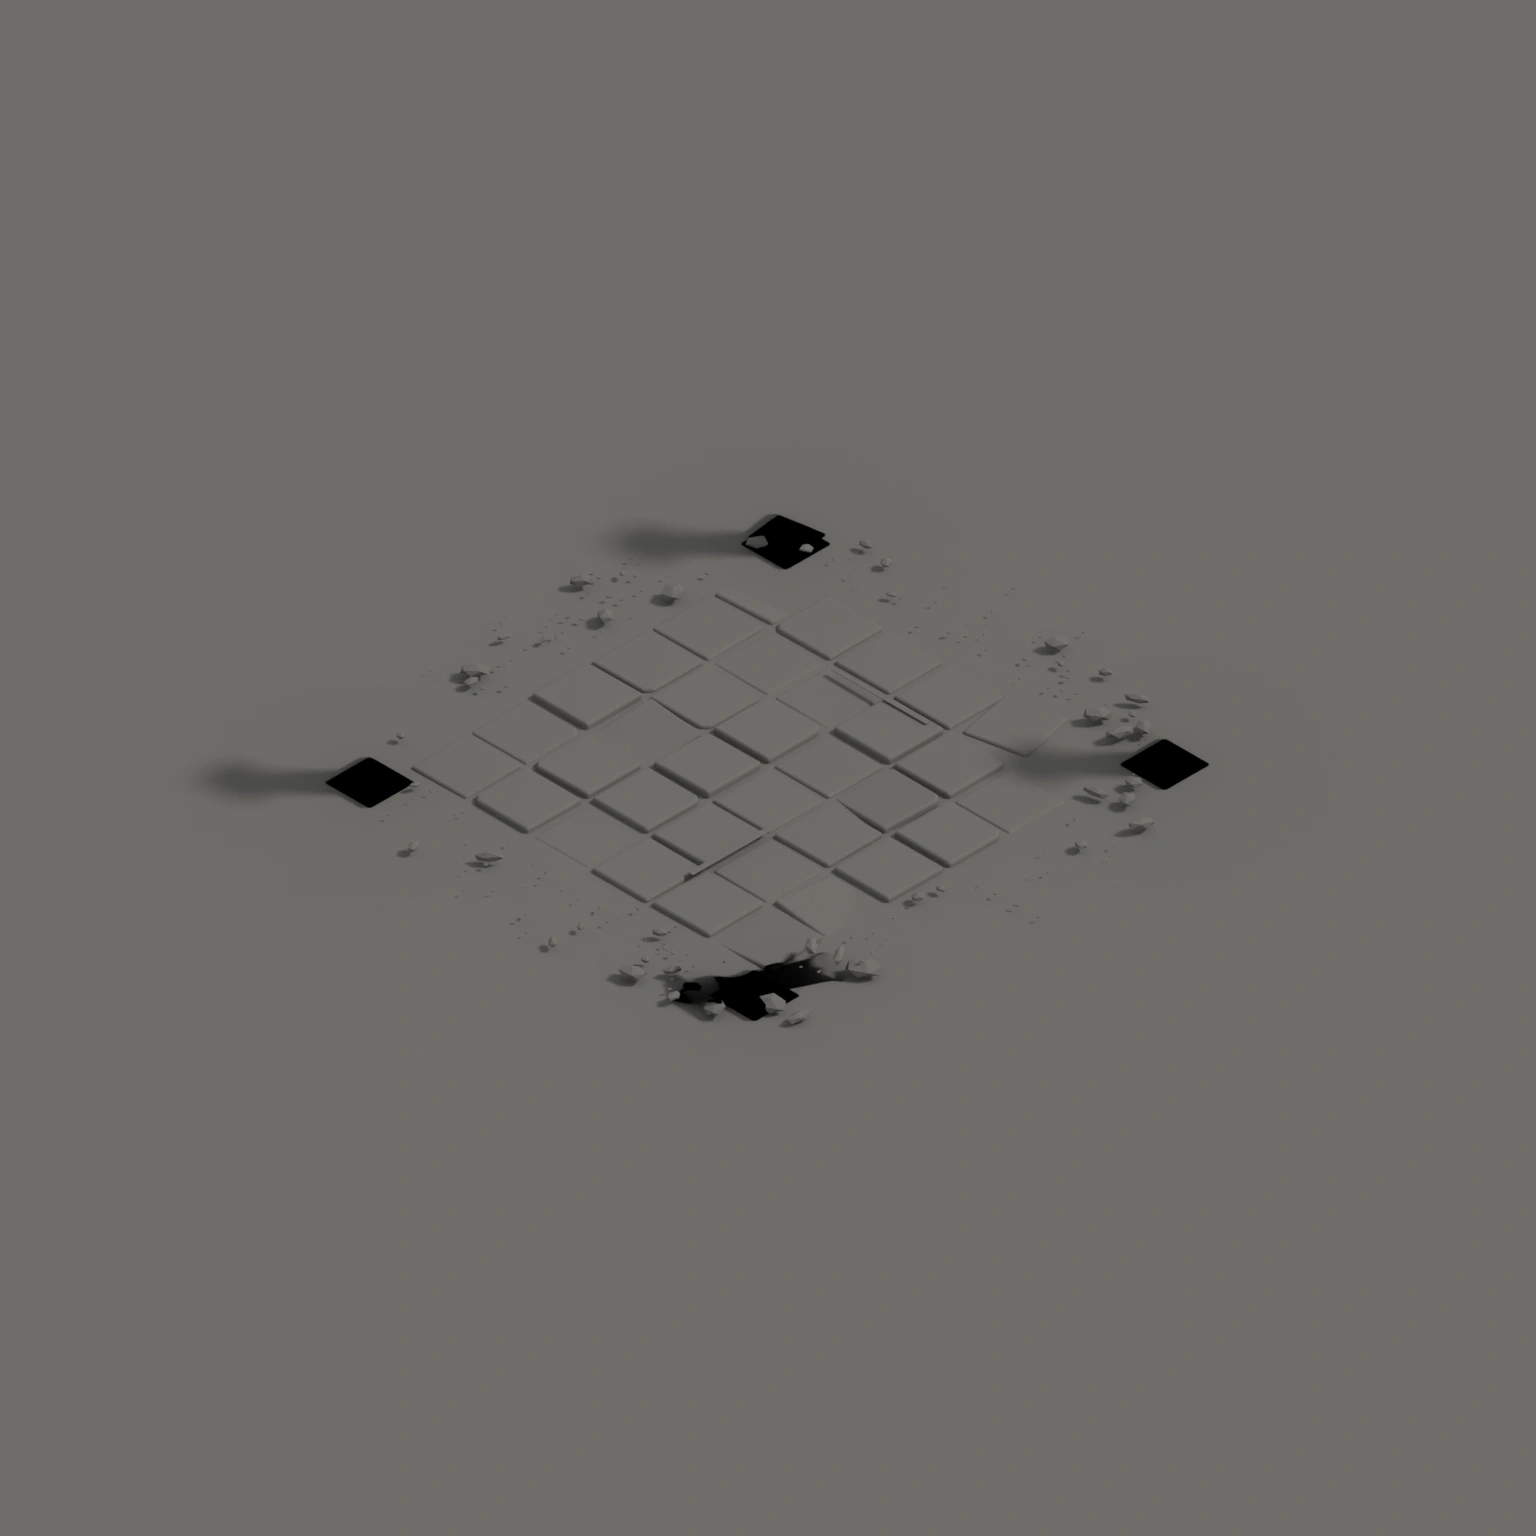
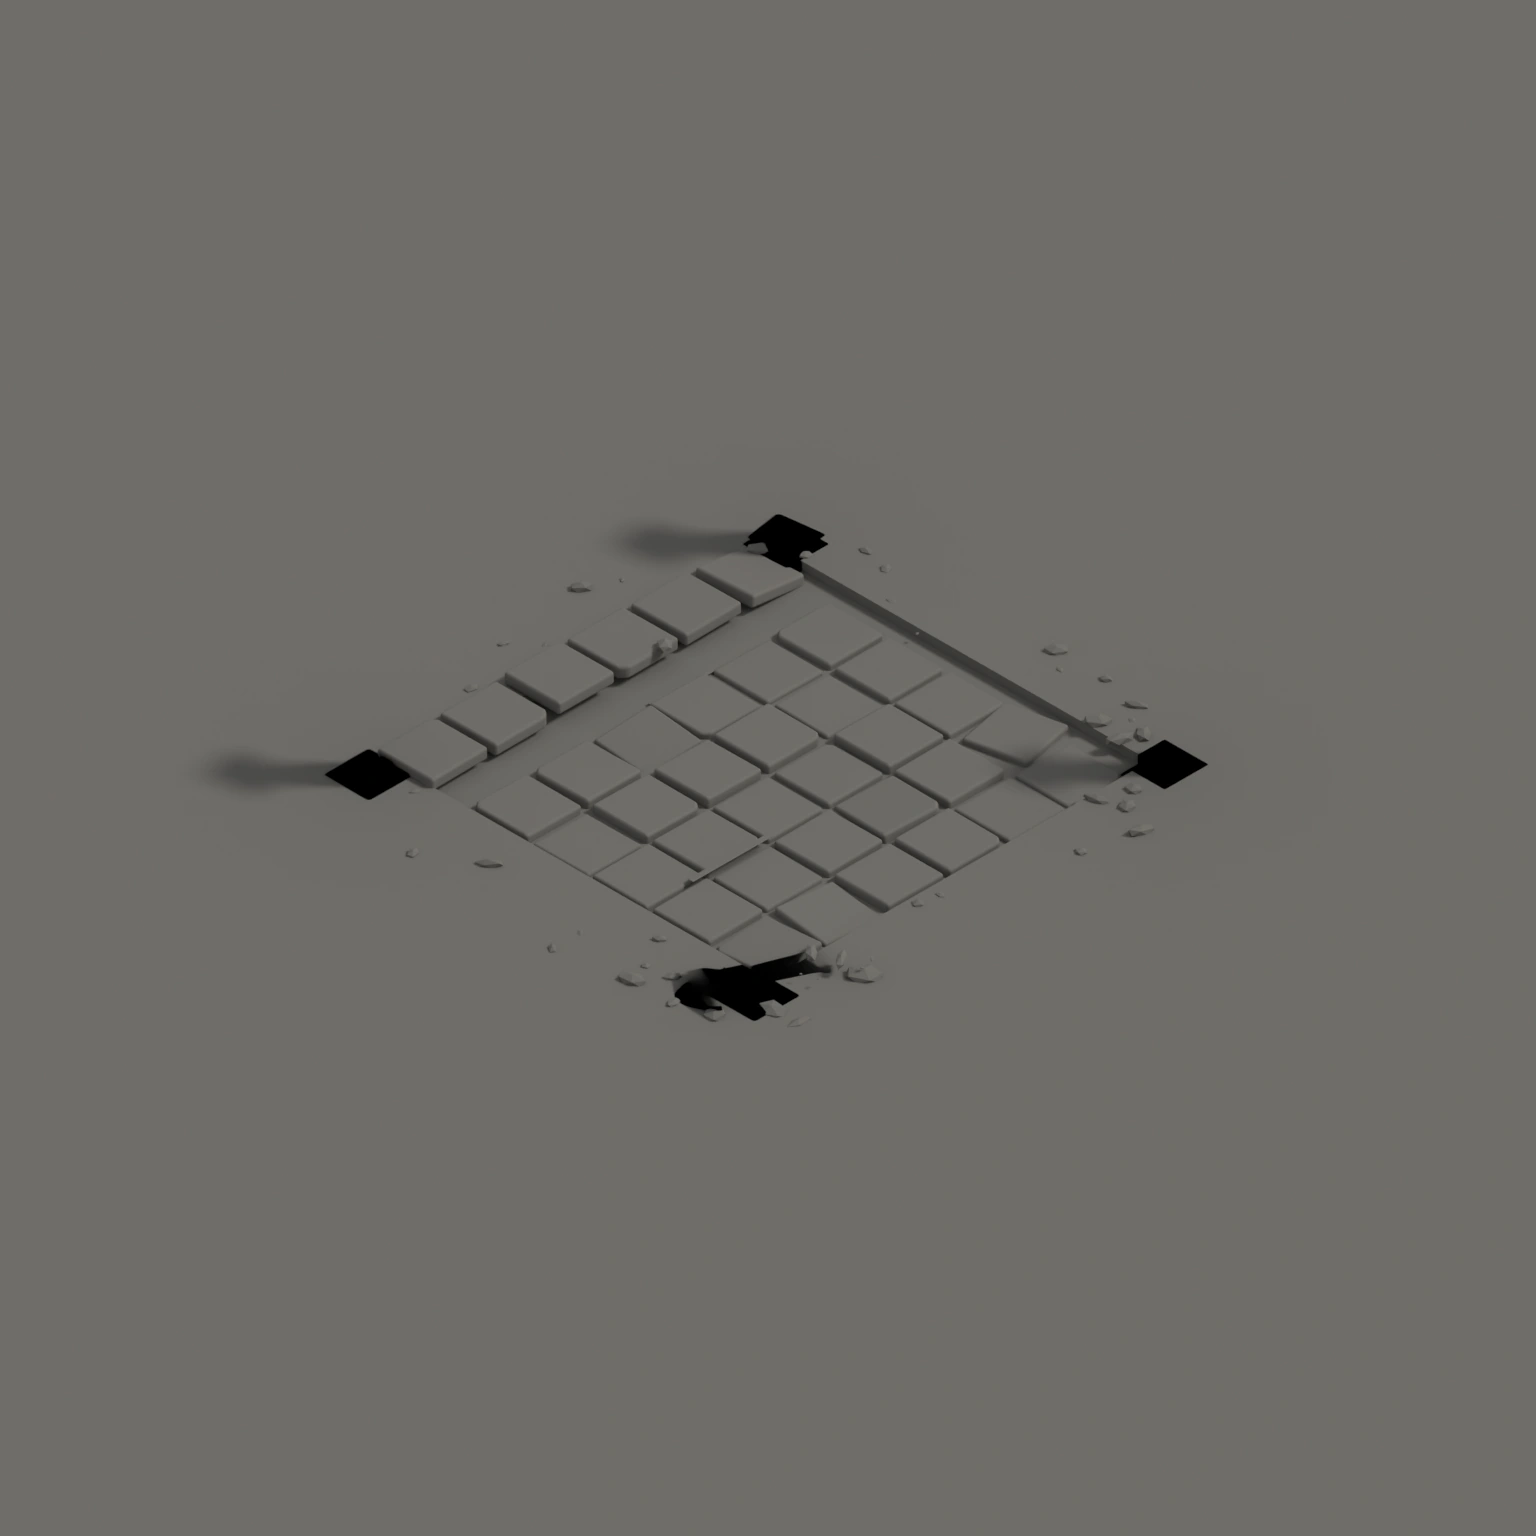
Export recessed Boop arena and match invisible floor opening

diff --git a/web-3d/games/boop/src/game/boop-prerender.test.ts b/web-3d/games/boop/src/game/boop-prerender.test.ts
@@ -1,6 +1,6 @@
 import * as THREE from 'three';
 import { describe, expect, it } from 'vitest';
-import { BOOP_PRERENDER_MANIFEST as manifest, batchBoopColumns, createBoopPrerenderTopology } from './boop-prerender';
+import { BOOP_PRERENDER_MANIFEST as manifest, batchBoopColumns, createBoopPrerenderTopology, createBoopGroundGeometry } from './boop-prerender';
 import type { BoardSnapshot } from '@abstract/three-engine';
 
 const snapshot: BoardSnapshot = { cells: [], cellCount: 324, playableCells: 36 };
@@ -26,7 +26,9 @@ describe('Boop Blender grid registration', () => {
   it('matches all 36 source cells exactly and picks the displaced cells at their own centers', () => {
     const topology = createBoopPrerenderTopology({ size: 6, outsideRows: 6 }, new THREE.Group());
     expect(manifest.referenceCellCount).toBe(36);
-    expect(manifest.maxSourceAlignmentError).toBeLessThan(1e-5);
+    // The saved arena intentionally moves some tiles relative to the original
+    // reference. Placement and picking must match those exported centers.
+    expect(manifest.maxSourceAlignmentError).toBeGreaterThan(0);
     const indices = new Set<number>();
     for (const cell of manifest.cells) {
       const index = cell.row * 6 + cell.col;
@@ -45,5 +47,17 @@ describe('Boop Blender grid registration', () => {
     expect(index).not.toBeNull();
     if (index === null) throw new Error('Missing pool cell');
     expect(topology.cellPosition(index, snapshot).toArray()).toEqual([-5.5, 0, -2.5]);
+  });
+  it('leaves the zero-height ground open over the lowered arena', () => {
+    const mesh = new THREE.Mesh(createBoopGroundGeometry(30), new THREE.MeshBasicMaterial());
+    mesh.updateMatrixWorld(true);
+    const cut = manifest.groundCutout;
+    function surface(x: number, z: number) {
+      const ray = new THREE.Raycaster(new THREE.Vector3(x, 2, z), new THREE.Vector3(0, -1, 0));
+      return ray.intersectObject(mesh)[0]?.point.y;
+    }
+    expect(surface((cut.minX + cut.maxX) / 2, (cut.minZ + cut.maxZ) / 2)).toBeCloseTo(cut.floorY);
+    expect(surface(cut.maxX + 1, 0)).toBeCloseTo(0);
+    mesh.geometry.dispose();
   });
 });

diff --git a/web-3d/games/boop/src/game/boop-prerender.ts b/web-3d/games/boop/src/game/boop-prerender.ts
@@ -6,6 +6,28 @@ import { loadBoopShadowGeometry } from './boop-stone-cats';
 
 export const BOOP_PRERENDER_MANIFEST = manifest;
 
+/** Match the invisible depth/shadow floor to Blender's actual arena opening. */
+export function createBoopGroundGeometry(size: number): THREE.BufferGeometry {
+  const cut = manifest.groundCutout;
+  const half = size / 2;
+  const parts: THREE.BufferGeometry[] = [];
+  function rectangle(x0: number, x1: number, z0: number, z1: number, y = 0) {
+    const plane = new THREE.PlaneGeometry(x1 - x0, z1 - z0);
+    plane.rotateX(-Math.PI / 2);
+    plane.translate((x0 + x1) / 2, y, (z0 + z1) / 2);
+    parts.push(plane);
+  }
+  rectangle(-half, half, -half, cut.minZ);
+  rectangle(-half, half, cut.maxZ, half);
+  rectangle(-half, cut.minX, cut.minZ, cut.maxZ);
+  rectangle(cut.maxX, half, cut.minZ, cut.maxZ);
+  rectangle(cut.minX, cut.maxX, cut.minZ, cut.maxZ, cut.floorY);
+  const geometry = mergeGeometries(parts);
+  parts.forEach(part => part.dispose());
+  if (!geometry) throw new Error('Could not create recessed Boop ground');
+  return geometry;
+}
+
 function asset(name: string): string {
   return `${import.meta.env.BASE_URL}prerender/${name}`;
 }
@@ -83,6 +105,13 @@ export function createBoopPrerenderTopology(options: SquareGridOptions, columns:
       return outside !== null && outside >= 36 ? outside : null;
     },
     buildBoard(ctx) {
+      for (const child of ctx.board.children) {
+        if (!(child instanceof THREE.Mesh) || !child.userData.playfieldGround) continue;
+        child.geometry.computeBoundingBox();
+        const box = child.geometry.boundingBox!;
+        child.geometry = createBoopGroundGeometry(box.max.x - box.min.x);
+        ctx.boardGeometries.push(child.geometry);
+      }
       ctx.board.add(columns.clone(true));
       // Two batched low-poly surfaces provide depth/AO and live shadows over the image.
       const parts = manifest.cells.map(c => {

diff --git a/web-3d/scripts/render-boop-arena.py b/web-3d/scripts/render-boop-arena.py
@@ -17,6 +17,7 @@ parser.add_argument('--grid', required=True)
 parser.add_argument('--output', required=True)
 parser.add_argument('--source-copy', required=True)
 parser.add_argument('--resolution', type=int, default=1536)
+parser.add_argument('--allow-grid-offsets', action='store_true', help='Keep intentionally moved tile centers and record their reference offsets')
 args = parser.parse_args(sys.argv[sys.argv.index('--') + 1:])
 args.output = os.path.abspath(args.output)
 os.makedirs(args.output, exist_ok=True)
@@ -32,7 +33,7 @@ assert len(cells) == 36, 'Expected all 36 reference cells'
 errors = [math.hypot(o.matrix_world.translation.x - reference[o.name][0],
                      o.matrix_world.translation.y - reference[o.name][1]) for o in cells]
 height_changes = [abs(o.matrix_world.translation.z - reference[o.name][2]) for o in cells]
-assert max(errors) < 1e-5, 'Grid and source arena differ horizontally; review alignment before rendering'
+assert args.allow_grid_offsets or max(errors) < 1e-5, 'Grid and source arena differ horizontally; review alignment before rendering'
 
 # The authored pitch is 1.05 m; the game's cell pitch is one world unit.
 scale = 1 / 1.05
@@ -43,6 +44,14 @@ for o in list(scene.objects):
     if o.parent is None:
         o.matrix_world = transform @ o.matrix_world
 bpy.context.view_layer.update()
+recess = scene.objects.get('Arena recessed floor')
+recess_z = recess.matrix_world.translation.z if recess else 0
+ground_cutout = None
+if recess:
+    corners = [recess.matrix_world @ Vector(v) for v in recess.bound_box]
+    ground_cutout = {'minX': min(p.x for p in corners), 'maxX': max(p.x for p in corners),
+                     'minZ': -max(p.y for p in corners), 'maxZ': -min(p.y for p in corners),
+                     'floorY': recess_z}
 
 def srgb(hex_value):
     values = [int(hex_value[i:i + 2], 16) / 255 for i in (0, 2, 4)]
@@ -62,7 +71,7 @@ meshes = [o for o in scene.objects if o.type == 'MESH' and not o.hide_render and
 for o in meshes:
     o.data = o.data.copy()
     o.data.materials.clear()
-    o.data.materials.append(ground if o == floor else stone)
+    o.data.materials.append(ground if o == floor or o == recess or o.name == 'Arena recess inner sides' else stone)
 
 # Retain complete column assemblies so moving pieces can pass behind their silhouettes.
 columns = [o for o in meshes if any(s in o.name.lower() for s in ('column', 'capital'))]
@@ -76,7 +85,7 @@ for o in cells:
     origin = o.matrix_world.inverted() @ Vector((center.x, center.y, 10))
     direction = o.matrix_world.to_3x3().inverted() @ Vector((0, 0, -1))
     hit, point, _, _ = o.ray_cast(origin, direction)
-    top = max(0, (o.matrix_world @ point).z if hit else center.z + o.dimensions.z / 2)
+    top = max(recess_z, (o.matrix_world @ point).z if hit else center.z + o.dimensions.z / 2)
     records.append({'name': o.name, 'row': row, 'col': col, 'x': center.x, 'y': top, 'z': -center.y})
     marker = bpy.data.objects.new('Grid ' + o.name, None)
     marker.empty_display_type = 'SPHERE'
@@ -134,6 +143,7 @@ for o in columns:
 report = {
     'referenceCellCount': len(cells), 'maxSourceAlignmentError': max(errors),
     'maxSourceHeightChange': max(height_changes),
+    'groundCutout': ground_cutout,
     'sourcePitch': 1.05, 'worldScale': scale, 'cells': sorted(records, key=lambda c: (c['row'], c['col'])),
     'camera': {'position': [position[0], position[2], -position[1]], 'target': [0, 0, 0], 'width': 18, 'height': 18, 'frameWidth': 14, 'frameHeight': 10},
     'liveColumns': [o.name for o in columns], 'staticMeshCount': len(meshes) - len(columns),

diff --git a/docs/boop-prerender.md b/docs/boop-prerender.md
@@ -9,10 +9,13 @@ The existing full 3D arena is available for comparison with `?arena=3d`.
 ## Grid registration
 
 The supplied `boop_grid.blend` contains the same 36 named cell objects as
-`ari+6X6.blend`. Their horizontal source centers match exactly (maximum error 0).
-Tile heights can be edited independently in Blender; the manifest records the
-current top of each tile, clamped to the ground for buried tiles. The renderer
-checks horizontal registration and reports the largest source height change.
+`ari+6X6.blend`. Cell names preserve the reference grid's row and column identity.
+The latest saved arena intentionally offsets some tile centers. Rendering with
+`--allow-grid-offsets` retains these edits and records the reference displacement.
+Placement and picking use the exported positions. Without this flag, horizontal
+registration must still match the reference exactly.
+The manifest records the current top of each tile, clamped to the recessed floor
+for buried tiles, and reports the largest source height change.
 The authored pitch is 1.05 Blender units; the entire scene is uniformly scaled
 by 1/1.05 to match the game's one-unit pitch. Intentional tile offsets are retained.
 Blender +Z maps to game +Y, and Blender +Y maps to game -Z. Grid row labels are
@@ -23,6 +26,9 @@ cell center and surface height, the live column names, and the exact camera.
 Piece placement, picking, and screen coordinates use this registration. Exterior
 pool cells keep the existing coordinates. Two batched tile surfaces provide
 depth and live contact shadows without rendering the original tile meshes.
+The surrounding ground is at zero with a rectangular opening and a lowered
+arena floor. Both invisible depth and shadow receivers share this opening;
+there is no zero-height floor covering pieces placed inside the recess.
 
 ## Camera and color
 
